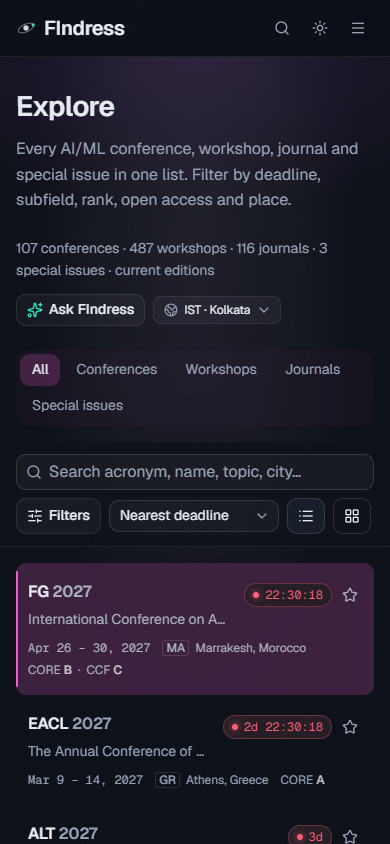
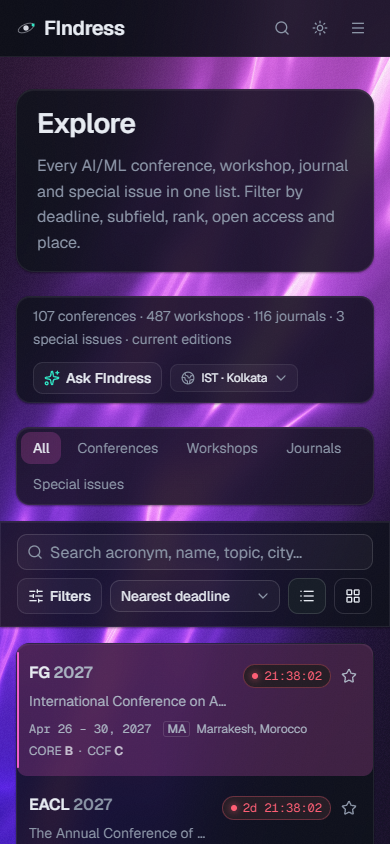
feat(explore): LightPillar exactly as the React Bits demo, on /explore only
- Fix the vendored LightPillar: the registry passes Float32Array(4) to the float uniforms
  uWaveSin/uWaveCos, which flattens the pillar into a smooth band; reactbits.dev ships plain
  numbers. Desktop keeps quality high on <=4-core machines (phones still drop to low).
- Props copied from the demo's live state (glow 0.002, rotation 25deg, screen over #120F17,
  quality high); no masks, dimming or overlays. Dark theme only.
- Mounted by the /explore page as a fixed full-viewport layer (unmounts on leave); removed from
  AppShell. Other pages restored to their pre-pillar surfaces, hero blob, glow and muted text.
- /explore readability via a glass-panel utility (72% surface, blur 14px, backdrop darkened in
  dark, hairline, lift) on intro, counts row, tabs, rail, toolbar, rows, cards and sheets.
  AA: all texts pass in both themes at 1440 and 390.
- Screenshots: login, explore (and vs the demo), preview, landing and detail; docs updated.

diff --git a/src/components/explore/explorer.tsx b/src/components/explore/explorer.tsx
@@ -374,13 +374,13 @@ export function Explorer({
     <div className="flex gap-8 pt-6">
       <aside
         aria-label="Filters"
-        className="bg-chrome/80 sticky top-20 hidden max-h-[calc(100dvh-6rem)] w-[268px] shrink-0 scrollbar-none self-start overflow-y-auto rounded-2xl px-4 pt-5 pb-8 lg:block"
+        className="glass-panel sticky top-20 hidden max-h-[calc(100dvh-6rem)] w-[268px] shrink-0 scrollbar-none self-start overflow-y-auto rounded-2xl px-4 pt-5 pb-8 lg:block"
       >
         {showRail && rail}
       </aside>
 
       <div className="min-w-0 flex-1">
-        <div className="flex flex-wrap items-center justify-between gap-3 pb-6">
+        <div className="glass-panel mb-6 flex flex-wrap items-center justify-between gap-3 rounded-xl py-2 pr-2 pl-4">
           <p className="text-muted-foreground min-w-0 text-sm" aria-live="polite">
             {summary}
           </p>
@@ -392,7 +392,7 @@ export function Explorer({
 
         <TabBar value={tab} onChange={(t) => patch({ tab: t })} />
 
-        <div className="border-hairline bg-background/85 md:bg-surface/90 sticky top-14 z-20 -mx-4 flex flex-wrap items-center gap-2 border-b px-4 py-3 backdrop-blur-xl md:-mx-0 md:rounded-xl md:border-0 md:px-3">
+        <div className="glass-panel sticky top-14 z-20 -mx-4 flex flex-wrap items-center gap-2 px-4 py-3 md:-mx-0 md:rounded-xl md:px-3">
           <div className="relative min-w-[200px] flex-1 basis-full sm:basis-auto">
             <Search
               className="text-muted-foreground pointer-events-none absolute top-1/2 left-2.5 z-10 size-4 -translate-y-1/2"
@@ -514,7 +514,7 @@ export function Explorer({
               ref={listRef}
               role="list"
               aria-label="Venues"
-              className="bg-background/80 relative rounded-xl"
+              className="glass-panel relative rounded-xl"
               style={{ height: virtualizer.getTotalSize() }}
             >
               {virtualizer.getVirtualItems().map((v) => {
@@ -571,7 +571,7 @@ export function Explorer({
       <Sheet open={mobileFilters} onOpenChange={setMobileFilters}>
         <SheetContent
           side="bottom"
-          className="glass border-hairline max-h-[88dvh] overflow-y-auto px-5 pb-6"
+          className="glass-panel bg-surface/70 max-h-[88dvh] overflow-y-auto px-5 pb-6"
         >
           <SheetHeader className="px-0">
             <SheetTitle className="font-heading text-xl">Filters</SheetTitle>
@@ -609,7 +609,7 @@ function TabBar({ value, onChange }: { value: ExploreTab; onChange: (t: ExploreT
     <div
       role="tablist"
       aria-label="What to explore"
-      className="tint-surface mb-4 flex w-full flex-wrap gap-1 rounded-xl p-1 sm:w-fit sm:flex-nowrap"
+      className="glass-panel tint-surface mb-4 flex w-full flex-wrap gap-1 rounded-xl p-1 sm:w-fit sm:flex-nowrap"
     >
       {EXPLORE_TABS.map((t, i) => {
         const active = t.value === value;

diff --git a/src/components/landing/hero.tsx b/src/components/landing/hero.tsx
@@ -26,7 +26,7 @@ export function Hero({ data }: { data: LandingData }) {
         {/* One slow aurora blob, behind the hero only. */}
         <div
           aria-hidden
-          className="absolute top-[-20%] right-[-10%] -z-10 h-[620px] w-[620px] rounded-full opacity-[0.08] blur-[90px] lg:opacity-[0.10] dark:opacity-[0.06] lg:dark:opacity-25"
+          className="absolute top-[-20%] right-[-10%] -z-10 h-[620px] w-[620px] rounded-full opacity-[0.10] blur-[90px] dark:opacity-25"
           style={{
             background:
               "radial-gradient(circle at 30% 30%, var(--aurora-1), var(--aurora-2) 45%, var(--aurora-3) 75%, transparent 80%)",
@@ -62,7 +62,7 @@ export function Hero({ data }: { data: LandingData }) {
                   id="hero-q"
                   name="q"
                   placeholder="NeurIPS, diffusion workshops, Seoul…"
-                  className="border-hairline-strong bg-surface/90 placeholder:text-muted-foreground focus:border-aurora-2 h-11 w-full rounded-xl border pr-3 pl-9 text-sm backdrop-blur"
+                  className="border-hairline-strong bg-surface/70 placeholder:text-muted-foreground focus:border-aurora-2 h-11 w-full rounded-xl border pr-3 pl-9 text-sm backdrop-blur"
                 />
               </div>
               <Button type="submit" className="h-11 px-4">
@@ -130,7 +130,7 @@ export function Hero({ data }: { data: LandingData }) {
                     d.lat != null && d.lng != null && setHighlight({ lat: d.lat, lng: d.lng })
                   }
                   onBlur={() => setHighlight(null)}
-                  className="group border-hairline bg-surface/90 hover:border-hairline-strong flex h-full flex-col gap-3 rounded-xl border p-4 transition-colors"
+                  className="group border-hairline bg-surface/60 hover:border-hairline-strong flex h-full flex-col gap-3 rounded-xl border p-4 transition-colors"
                 >
                   <div className="flex items-start justify-between gap-2">
                     <span className="font-heading text-xl leading-none">

diff --git a/src/components/explore/explore-pillar.tsx b/src/components/explore/explore-pillar.tsx
@@ -1,0 +1,51 @@
+"use client";
+
+import dynamic from "next/dynamic";
+import { useTheme } from "next-themes";
+import { useDeferredStart } from "@/lib/hooks/use-deferred-start";
+import { useWebGLMode } from "@/lib/hooks/use-webgl";
+
+// three.js + WebGL: browser only, fetched after the page is interactive.
+const LightPillar = dynamic(() => import("@/components/react-bits/LightPillar"), { ssr: false });
+
+/** The React Bits demo's background behind the pillar. */
+export const DEMO_BG = "#120F17";
+
+/**
+ * React Bits LightPillar behind /explore only, configured like the official demo
+ * (reactbits.dev/backgrounds/light-pillar): same props, `screen` blend over the demo's dark
+ * purple, no masks, no dimming, no overlays. Fixed and full-viewport, so the list scrolls over a
+ * still light. Rendered inside the /explore page, so it unmounts when you leave.
+ * Dark theme only: the demo is a dark scene, and light-theme text is dark.
+ */
+export function ExplorePillar() {
+  const { resolvedTheme } = useTheme();
+  const started = useDeferredStart();
+  const mode = useWebGLMode(started);
+  if (resolvedTheme !== "dark") return null;
+  return (
+    <div
+      aria-hidden
+      data-pillar
+      className="pointer-events-none fixed inset-0 -z-10"
+      style={{ backgroundColor: DEMO_BG }}
+    >
+      {mode === "webgl" && (
+        <LightPillar
+          topColor="#5227FF"
+          bottomColor="#FF9FFC"
+          intensity={1.0}
+          rotationSpeed={0.3}
+          glowAmount={0.002}
+          pillarWidth={3.0}
+          pillarHeight={0.4}
+          noiseIntensity={0.5}
+          pillarRotation={25}
+          interactive={false}
+          mixBlendMode="screen"
+          quality="high"
+        />
+      )}
+    </div>
+  );
+}

diff --git a/src/app/explore/page.tsx b/src/app/explore/page.tsx
@@ -2,6 +2,7 @@ import type { Metadata } from "next";
 import { connection } from "next/server";
 import { Suspense } from "react";
 import { GlobalAssistant } from "@/components/assistant/global-assistant";
+import { ExplorePillar } from "@/components/explore/explore-pillar";
 import { PackedExplorer } from "@/components/explore/packed-explorer";
 import { ExplorerSkeleton } from "@/components/explore/explorer-skeleton";
 import { Container } from "@/components/shell/states";
@@ -58,13 +59,16 @@ async function ExplorerLoader({
 export default function ExplorePage(props: PageProps<"/explore">) {
   return (
     <Container>
+      <ExplorePillar />
       {/* Static shell: the title and intro paint at first byte, before the row data streams in. */}
       <header className="pt-8 md:pt-10">
-        <h1 className="font-heading text-3xl leading-tight md:text-5xl">Explore</h1>
-        <p className="text-muted-foreground mt-3 max-w-2xl text-base">
-          Every AI/ML conference, workshop, journal and special issue in one list. Filter by
-          deadline, subfield, rank, open access and place.
-        </p>
+        <div className="glass-panel w-fit max-w-3xl rounded-2xl px-5 py-4 md:px-6 md:py-5">
+          <h1 className="font-heading text-3xl leading-tight md:text-5xl">Explore</h1>
+          <p className="text-muted-foreground mt-3 max-w-2xl text-base">
+            Every AI/ML conference, workshop, journal and special issue in one list. Filter by
+            deadline, subfield, rank, open access and place.
+          </p>
+        </div>
       </header>
       <Suspense fallback={<ExplorerSkeleton />}>
         <ExplorerLoader searchParams={props.searchParams} />

diff --git a/src/app/globals.css b/src/app/globals.css
@@ -61,12 +61,14 @@
   --surface: #0d121b;
   --surface-2: #151b26;
   --lift: inset 0 1px 0 0 rgba(255, 255, 255, 0.055), 0 1px 2px rgba(0, 0, 0, 0.45);
+  /* Glass over the /explore LightPillar: the backdrop (not the pillar) is darkened for AA text. */
+  --glass-dim: 0.5;
   --glow-strength: 13%;
   --muted-on-tint: #a9b2c1;
   --hairline: rgba(255, 255, 255, 0.07);
   --hairline-strong: rgba(255, 255, 255, 0.13);
   --text: #e8ecf3;
-  --muted-text: #98a2b3;
+  --muted-text: #8a94a6;
 
   --aurora-1: #2ee6c5;
   --aurora-2: #38bdf8;
@@ -407,6 +409,16 @@
     color: var(--muted-foreground);
   }
 }
+/*
+ * Glass panel (the /explore surfaces over the LightPillar, like the React Bits demo nav):
+ * dark translucent surface, 12px backdrop blur, hairline border, lift.
+ */
+@utility glass-panel {
+  background-color: color-mix(in oklab, var(--surface) 72%, transparent);
+  backdrop-filter: blur(14px) saturate(140%) brightness(var(--glass-dim, 1));
+  border: 1px solid var(--hairline);
+  box-shadow: var(--lift);
+}
 @utility lift {
   box-shadow: var(--lift);
 }
@@ -429,13 +441,7 @@
   pointer-events: none;
   background: radial-gradient(
     120% 100% at 50% 0%,
-    /* Leans 35% toward the LightPillar violet so the glow and the pillar read as one light. */
-    color-mix(
-        in oklab,
-        color-mix(in oklab, var(--screen) 65%, #5227ff) var(--glow-strength),
-        transparent
-      )
-      0%,
+    color-mix(in oklab, var(--screen) var(--glow-strength), transparent) 0%,
     transparent 70%
   );
 }

diff --git a/src/components/react-bits/LightPillar.tsx b/src/components/react-bits/LightPillar.tsx
@@ -68,7 +68,9 @@ const LightPillar: React.FC<LightPillarProps> = ({
     const isLowEndDevice = isMobile || (navigator.hardwareConcurrency && navigator.hardwareConcurrency <= 4);
 
     let effectiveQuality = quality;
-    if (isLowEndDevice && quality === 'high') effectiveQuality = 'medium';
+    // FIndress: keep the requested quality on desktop (no downgrade on <=4-core laptops); phones
+    // still drop to low below.
+    if (isLowEndDevice && isMobile && quality === 'high') effectiveQuality = 'medium';
     if (isMobile && quality !== 'low') effectiveQuality = 'low';
 
     const qualitySettings = {
@@ -221,12 +223,11 @@ const fragmentShader = `
 
     // Pre-compute wave rotation values
     const waveAngle = 0.4;
-    const waveSinValues = new Float32Array(4);
-    const waveCosValues = new Float32Array(4);
-    for (let i = 0; i < 4; i++) {
-      waveSinValues[i] = Math.sin(waveAngle);
-      waveCosValues[i] = Math.cos(waveAngle);
-    }
+    // FIndress: uWaveSin/uWaveCos are `float` uniforms. The registry passes Float32Array(4)
+    // here, which WebGL cannot read as a float, so the twisting waves vanish and the pillar
+    // renders as a flat band. reactbits.dev itself ships plain numbers (Math.sin(0.4)).
+    const waveSinValues = Math.sin(waveAngle);
+    const waveCosValues = Math.cos(waveAngle);
 
     // Pre-compute pillar rotation
     const pillarRotRad = (pillarRotation * Math.PI) / 180.0;

diff --git a/src/components/workspace/notes-slot.tsx b/src/components/workspace/notes-slot.tsx
@@ -93,11 +93,11 @@ export function NotesSlot({ eventId, kind = "event" }: { eventId: number; kind?:
         </div>
       </div>
       {!loaded ? (
-        <div className="border-hairline bg-surface/90 h-32 animate-pulse rounded-xl border" />
+        <div className="border-hairline bg-surface/50 h-32 animate-pulse rounded-xl border" />
       ) : preview ? (
         <div
           className={cn(
-            "border-hairline bg-surface/90 min-h-24 rounded-xl border px-4 py-2",
+            "border-hairline bg-surface/40 min-h-24 rounded-xl border px-4 py-2",
             !body && "text-muted-foreground text-sm",
           )}
           onDoubleClick={() => setPreview(false)}
@@ -115,7 +115,7 @@ export function NotesSlot({ eventId, kind = "event" }: { eventId: number; kind?:
             onChange={(e) => setBody(e.target.value)}
             rows={8}
             placeholder={"Ideas, co-authors, reviewer suggestions…\nMarkdown supported."}
-            className="border-hairline-strong bg-surface/90 placeholder:text-muted-foreground focus:border-aurora-2 w-full resize-y rounded-xl border px-4 py-3 text-sm outline-none"
+            className="border-hairline-strong bg-surface/40 placeholder:text-muted-foreground focus:border-aurora-2 w-full resize-y rounded-xl border px-4 py-3 text-sm outline-none"
           />
         </>
       )}

diff --git a/src/app/sources/page.tsx b/src/app/sources/page.tsx
@@ -66,7 +66,7 @@ function SourceCard({ h, now }: { h: SourceHealth; now: number }) {
   const meta = SOURCE_META[h.source as SourceName];
   const stats = h.lastRun?.stats ?? {};
   return (
-    <li className="border-hairline bg-surface/90 rounded-2xl border p-5">
+    <li className="border-hairline bg-surface/50 rounded-2xl border p-5">
       <div className="flex flex-wrap items-start justify-between gap-3">
         <div className="min-w-0">
           <div className="flex items-center gap-3">
@@ -174,7 +174,7 @@ async function SourcesContent() {
           ["Journals", totals.journals],
           ["Special issues", totals.specialIssues],
         ].map(([label, value]) => (
-          <div key={label} className="border-hairline bg-surface/90 rounded-xl border px-4 py-3">
+          <div key={label} className="border-hairline bg-surface/50 rounded-xl border px-4 py-3">
             <p className="text-muted-foreground text-xs">{label}</p>
             <p className="mt-1 font-mono text-xl">{Number(value).toLocaleString()}</p>
           </div>

diff --git a/src/components/shell/app-shell.tsx b/src/components/shell/app-shell.tsx
@@ -1,6 +1,5 @@
 import { type ReactNode, Suspense } from "react";
 import { type RouteAccentKey, routeAccentCss } from "@/lib/theme/route-accents";
-import { PillarBackground } from "./pillar-background";
 import { RouteAccentSync } from "./route-accent-sync";
 
 // First paint: route tints from the markers, and the full-bleed sign-in screen hides the site
@@ -19,11 +18,9 @@ export function AppShell({ children }: { children: ReactNode }) {
   return (
     <div data-app-shell className="flex min-h-dvh flex-col">
       <style>{CSS}</style>
-      {/* Read the pathname (request data), so they stream in. The fixed LightPillar background is
-          mounted here once, so navigation never re-initialises it. */}
+      {/* Reads the pathname (request data), so it streams in; it renders nothing. */}
       <Suspense fallback={null}>
         <RouteAccentSync />
-        <PillarBackground />
       </Suspense>
       {children}
     </div>

diff --git a/src/components/explore/journal-rows.tsx b/src/components/explore/journal-rows.tsx
@@ -283,7 +283,7 @@ export function JournalCard({
   return (
     <article
       onClick={onOpen}
-      className="group bg-surface lift tint-col-hover relative flex cursor-pointer flex-col gap-4 rounded-xl p-5 transition-colors"
+      className="group glass-panel tint-col-hover relative flex cursor-pointer flex-col gap-4 rounded-xl p-5 transition-colors"
     >
       <div className="flex items-start justify-between gap-3">
         <div className="min-w-0">
@@ -329,7 +329,7 @@ export function SpecialIssueCard({
     <article
       onClick={onOpen}
       className={cn(
-        "group bg-surface lift tint-col-hover relative flex cursor-pointer flex-col gap-4 rounded-xl p-5 transition-colors",
+        "group glass-panel tint-col-hover relative flex cursor-pointer flex-col gap-4 rounded-xl p-5 transition-colors",
         status === "closed" && "dimmed",
       )}
     >

diff --git a/src/components/insights/insights-dashboard.tsx b/src/components/insights/insights-dashboard.tsx
@@ -16,13 +16,13 @@ import { MonthStackChart } from "./month-stack-chart";
 const VenueMap = dynamic(() => import("./venue-map").then((m) => m.VenueMap), {
   ssr: false,
   loading: () => (
-    <div className="border-hairline bg-surface/90 h-[420px] animate-pulse rounded-2xl border" />
+    <div className="border-hairline bg-surface/50 h-[420px] animate-pulse rounded-2xl border" />
   ),
 });
 
 function Stat({ label, value }: { label: string; value: number }) {
   return (
-    <div className="border-hairline bg-surface/90 rounded-xl border px-4 py-3">
+    <div className="border-hairline bg-surface/50 rounded-xl border px-4 py-3">
       <p className="text-muted-foreground text-xs">{label}</p>
       <p className="mt-1 font-mono text-xl">{value.toLocaleString()}</p>
     </div>

diff --git a/src/components/assistant/assistant-panel.tsx b/src/components/assistant/assistant-panel.tsx
@@ -301,7 +301,7 @@ export function AssistantPanel({
                       type="button"
                       onClick={() => applyPrompt(p.text)}
                       disabled={owner == null}
-                      className="border-hairline bg-surface/90 text-muted-foreground hover:border-aurora-2/50 hover:text-foreground rounded-full border px-2.5 py-1 text-left text-xs transition-colors disabled:opacity-50"
+                      className="border-hairline bg-surface/60 text-muted-foreground hover:border-aurora-2/50 hover:text-foreground rounded-full border px-2.5 py-1 text-left text-xs transition-colors disabled:opacity-50"
                     >
                       {p.label}
                     </button>
